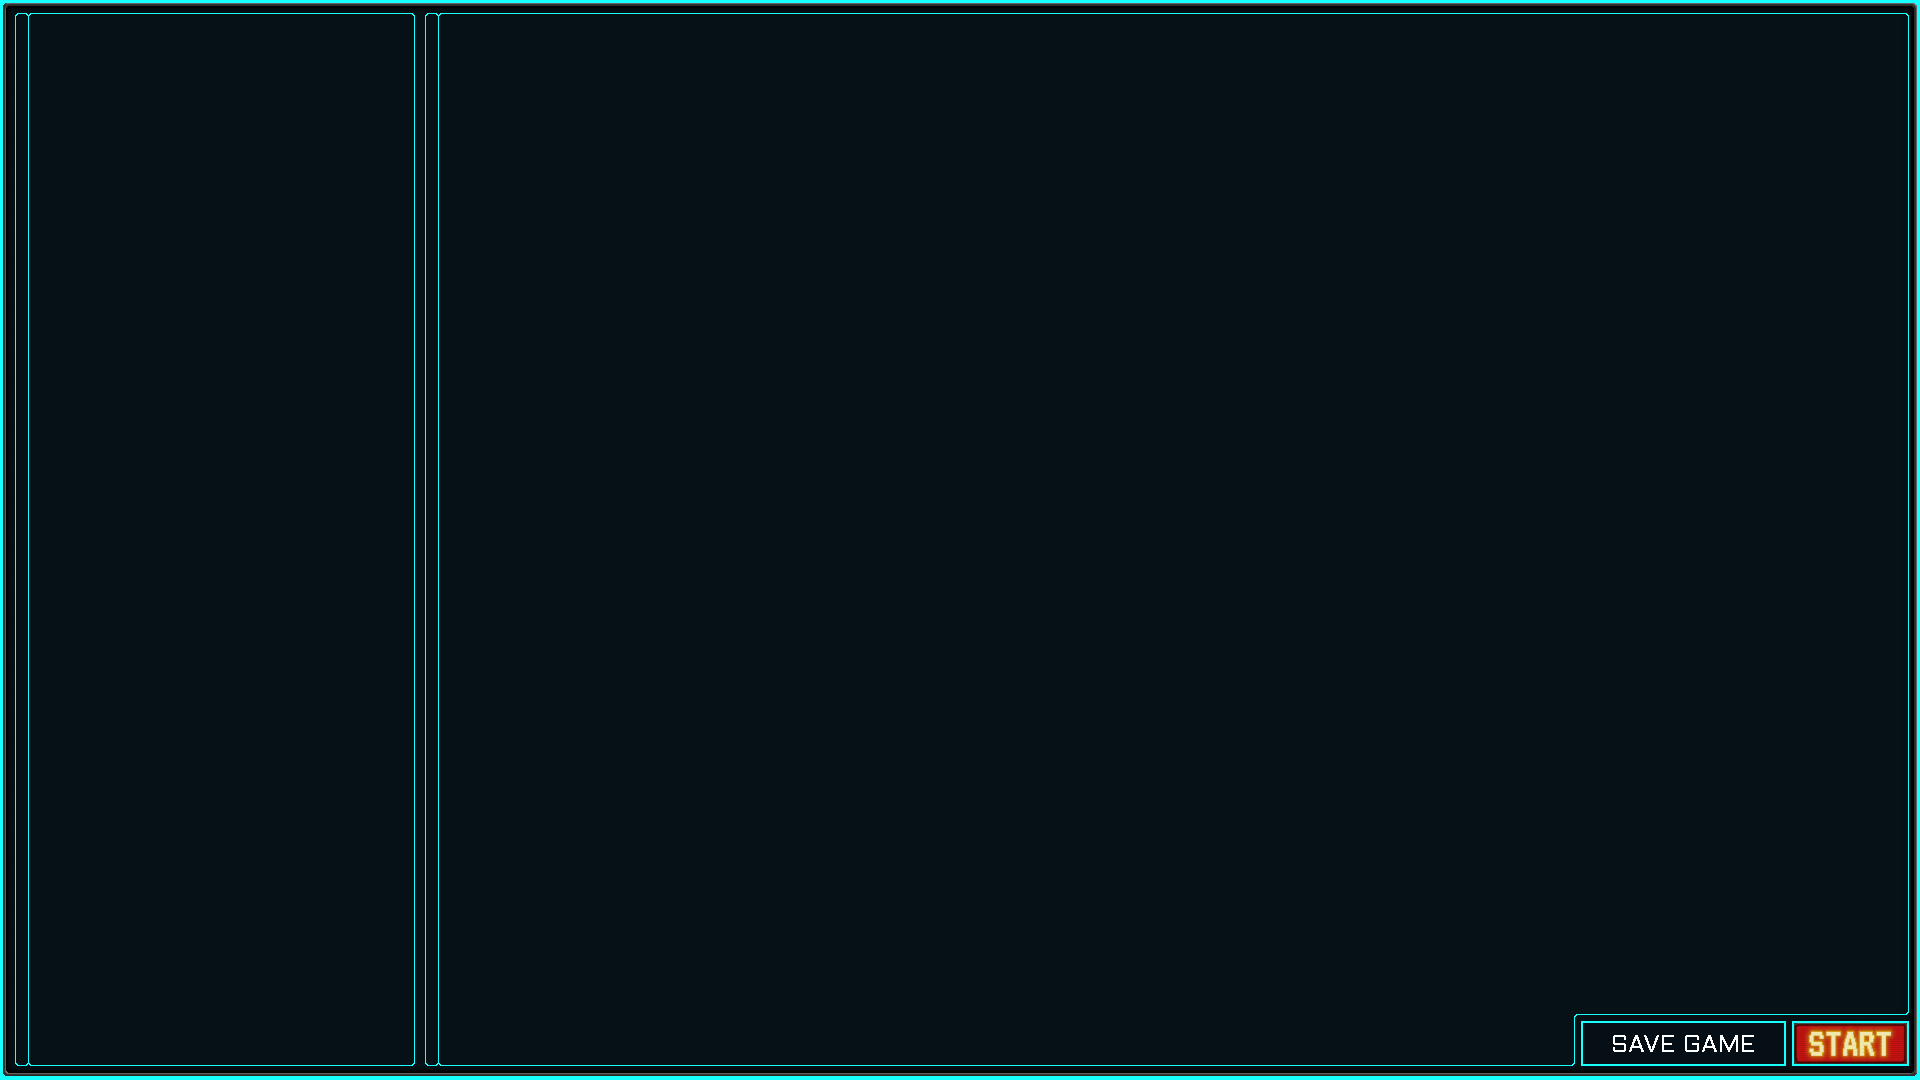
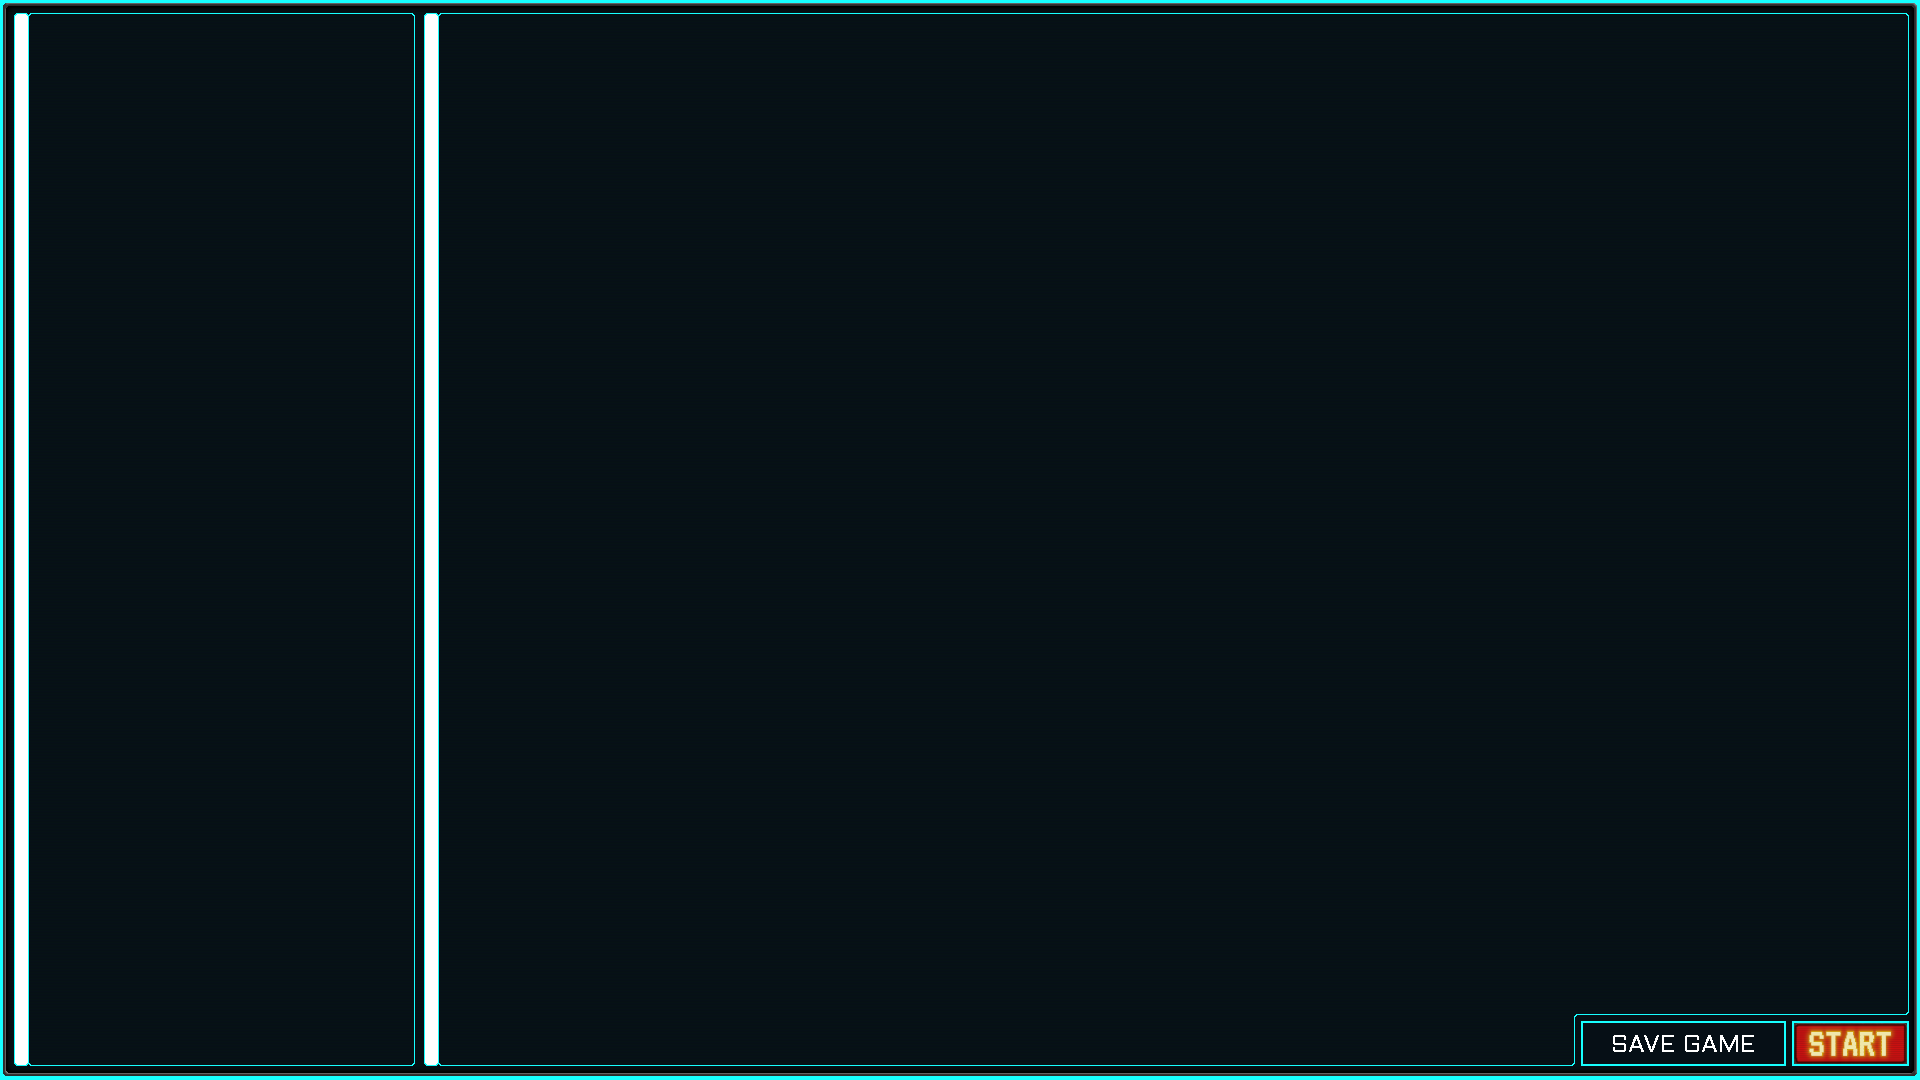
v0.0.05
New Game Menu

Changed region(s): [[0.2188, 0.0, 0.25, 0.9778], [0.0, 0.0, 0.0312, 0.9778]]

diff --git a/MenuManager.py b/MenuManager.py
@@ -4,6 +4,8 @@ from PygameManager import pygame
 from pyvidplayer import Video
 from json import load as json_load, dump as json_dump
 
+import traceback
+
 
 ###############################################################################################################################################################
 #---------------------------------------------------------------------- UTILITY MENUS ------------------------------------------------------------------------#
@@ -75,6 +77,7 @@ class ESCMenu:
 			global is_options_menu_open
 			global is_in_main_menu_screen
 			global is_in_new_game_load_game_screen
+			global is_in_new_game_screen
 			global RUNNING
 			global Main_Menu
 			global Options_Menu			
@@ -92,6 +95,8 @@ class ESCMenu:
 				is_in_main_menu_screen = True
 
 				is_in_new_game_load_game_screen = False
+
+				is_in_new_game_screen = False
 
 				Main_Menu.main_menu_intro_video.toggle_pause()
 
@@ -663,18 +668,59 @@ class NewGameMenu:
 		self.MENU_GUI 						= MENU_GUI
 		self.CHARACTER_CREATION_SHEET 		= CHARACTER_CREATION_SHEET
 
-		self.CHARACTER_CREATION_SHEET_SURFACE = pygame.Surface((self.CHARACTER_CREATION_SHEET.get_width(), self.CHARACTER_CREATION_SHEET.get_height()), pygame.SRCALPHA)
+
+		self.CHARACTER_CREATION_SHEET_SURFACE 			= pygame.Surface((self.CHARACTER_CREATION_SHEET.get_width(), self.CHARACTER_CREATION_SHEET.get_height()), pygame.SRCALPHA)
 		self.CHARACTER_CREATION_SHEET_SURFACE.blit(self.CHARACTER_CREATION_SHEET, (0, 0))
 
+		self.CHARACTER_CREATION_INFORMATION_SURFACE 	= pygame.Surface((self.CHARACTER_CREATION_SHEET.get_width(), self.CHARACTER_CREATION_SHEET.get_height()), pygame.SRCALPHA)
+
+
+		self.CHARACTER_CREATION_SHEET_SCROLL_BAR 		= Utility.Scroll_Bar(423 * self.FACTOR_X, 13 * self.FACTOR_Y, 1053 * self.FACTOR_Y,
+															self.CHARACTER_CREATION_SHEET.get_height() - 1000 * self.FACTOR_Y, (200,0,0), 17)
+
+
 		self.font20 = Utility.ScalableFont('Aldrich.ttf', 20)
+
+		self.image_offset_y = 0
 		#------------------------------------------------------------------------- UTILITY ---------------------------------------------------------------------------#
 		###############################################################################################################################################################	
 
-		self.receive_player_keybord_input = False
-		self.variable_to_receive_player_keybord_input = None
 
-		self.ASSIGN_CHARACTER_NAME_BOX_RECT = pygame.Rect(33, 37, 263, 16)
-		self.character_name = ['']
+		###############################################################################################################################################################
+		#------------------------------------------------------------------------ TEX BOXES --------------------------------------------------------------------------#
+		self.receive_player_keybord_input 				= False
+		self.variable_to_receive_player_keybord_input 	= None
+
+		self.ASSIGN_CHARACTER_NAME_BOX_RECT 			= pygame.Rect(88, 33, 453, 20)
+		self.character_name 							=  {	
+																'content' 		: '',
+																'rect' 			: self.ASSIGN_CHARACTER_NAME_BOX_RECT,
+																'maximum_size' 	: 34,
+																'content_type' 	: str,
+																'x_offset' 		: 4
+															}
+
+		self.ASSIGN_CHARACTER_AGE_BOX_RECT 				= pygame.Rect(616, 82, 59, 20)
+		self.character_age 								=  {	
+																'content' 		: '0',
+																'rect' 			: self.ASSIGN_CHARACTER_AGE_BOX_RECT,
+																'maximum_size' 	: 3,
+																'content_type' 	: int,
+																'x_offset' 		: 19
+															}
+
+		self.ASSIGN_CHARACTER_WEIGHT_BOX_RECT 			= pygame.Rect(107, 278, 59, 20)
+		self.character_weight 							=  {	
+																'content' 		: '95',
+																'rect' 			: self.ASSIGN_CHARACTER_WEIGHT_BOX_RECT,
+																'maximum_size' 	: 3,
+																'content_type' 	: int,
+																'x_offset' 		: 25
+															}	
+
+		#------------------------------------------------------------------------ TEX BOXES --------------------------------------------------------------------------#
+		###############################################################################################################################################################
+
 
 		###############################################################################################################################################################
 		#------------------------------------------------------------------------- BUTTONS ---------------------------------------------------------------------------#
@@ -683,8 +729,12 @@ class NewGameMenu:
 		###############################################################################################################################################################
 
 	def get_button_by_interaction(self, mouse_rect):
-		if self.ASSIGN_CHARACTER_NAME_BOX_RECT.colliderect(mouse_rect):
+		if self.ASSIGN_CHARACTER_NAME_BOX_RECT.colliderect((mouse_rect[0] - 439, mouse_rect[1]+self.image_offset_y - 13, 1, 1)):
 			return 'ASSIGN_CHARACTER_NAME'	
+		elif self.ASSIGN_CHARACTER_AGE_BOX_RECT.colliderect((mouse_rect[0] - 439, mouse_rect[1]+self.image_offset_y - 13, 1, 1)):
+			return 'ASSIGN_CHARACTER_AGE'
+		elif self.ASSIGN_CHARACTER_WEIGHT_BOX_RECT.colliderect((mouse_rect[0] - 439, mouse_rect[1]+self.image_offset_y - 13, 1, 1)):
+			return 'ASSIGN_CHARACTER_WEIGHT'					
 		else:
 			return None
 
@@ -698,6 +748,20 @@ class NewGameMenu:
 
 				self.HOVER_OVER_BUTTON_SOUND.fadeout(150)
 				self.CLICK_BUTTON_SOUND.play()
+			elif clicked_button == 'ASSIGN_CHARACTER_AGE':
+				self.receive_player_keybord_input = True
+
+				self.variable_to_receive_player_keybord_input = self.character_age
+
+				self.HOVER_OVER_BUTTON_SOUND.fadeout(150)
+				self.CLICK_BUTTON_SOUND.play()
+			elif clicked_button == 'ASSIGN_CHARACTER_WEIGHT':
+				self.receive_player_keybord_input = True
+
+				self.variable_to_receive_player_keybord_input = self.character_weight
+
+				self.HOVER_OVER_BUTTON_SOUND.fadeout(150)
+				self.CLICK_BUTTON_SOUND.play()								
 		else:
 			self.receive_player_keybord_input = False
 			self.variable_to_receive_player_keybord_input = None
@@ -715,19 +779,66 @@ class NewGameMenu:
 			self.hovered_button = self.last_hovered_button
 
 	def draw(self, SCREEN):
-		SCREEN.blit(self.MENU_GUI, (self.MENU_GUI_MIDDLE_X, self.MENU_GUI_MIDDLE_Y))
-
-		character_name_text_render = self.font20.render(str(self.character_name[0]), True, (255,255,255))	
-		SCREEN.blit(character_name_text_render, (33, 37))
-
-		SCREEN.blit(self.CHARACTER_CREATION_SHEET_SURFACE.subsurface(0, 0, self.CHARACTER_CREATION_SHEET_SURFACE.get_width(), 1000 * self.FACTOR_Y), (439 * self.FACTOR_X, 14 * self.FACTOR_Y))		
+		try:
+			self.image_offset_y = self.CHARACTER_CREATION_SHEET_SCROLL_BAR.get_scroll_position()			
 
 
-		if self.hovered_button != None:
-			pass
-		else:
-			self.HOVER_OVER_BUTTON_SOUND.fadeout(200)
+			self.CHARACTER_CREATION_SHEET_SCROLL_BAR.draw(SCREEN)
 
 
+			######  BACKGROUND  ######
+			SCREEN.blit(self.MENU_GUI, (self.MENU_GUI_MIDDLE_X, self.MENU_GUI_MIDDLE_Y))
+
+
+			######  TEXT RENDERS  ######
+			character_name_text_render 			= self.font20.render(	str(self.character_name['content']), 		True, 	(255,255,255))
+			character_age_text_render 			= self.font20.render(	str(self.character_age['content']), 		True, 	(255,255,255))
+			character_weight_text_render 		= self.font20.render(	str(self.character_weight['content']), 		True, 	(255,255,255))	
+
+			self.CHARACTER_CREATION_INFORMATION_SURFACE.blit(character_name_text_render, 	(	self.character_name['rect'][0]			+ self.character_name['x_offset']											
+																							,   self.character_name['rect'][1] 		+ 1))
+
+			self.CHARACTER_CREATION_INFORMATION_SURFACE.blit(character_age_text_render, 	(	self.character_age['rect'][0] 			+ self.character_age['x_offset']		
+																							,   self.character_age['rect'][1] 		+ 1))
+
+			self.CHARACTER_CREATION_INFORMATION_SURFACE.blit(character_weight_text_render, 	(	self.character_weight['rect'][0] 		+ self.character_weight['x_offset']		
+																							,   self.character_weight['rect'][1] 	+ 1))				
+			
+
+			if self.receive_player_keybord_input == True:
+				current_time = pygame.time.get_ticks()
+				visibility_duration = 250
+				cycle_duration = visibility_duration * 2
+
+				if (current_time % cycle_duration) < visibility_duration:
+					x = self.variable_to_receive_player_keybord_input['rect'][0] + self.variable_to_receive_player_keybord_input['x_offset'] + self.font20.render(str(self.variable_to_receive_player_keybord_input['content']), True, (255,255,255)).get_width()
+					y = self.variable_to_receive_player_keybord_input['rect'][1]
+					pygame.draw.rect(self.CHARACTER_CREATION_INFORMATION_SURFACE, (255,255,255), (x, y, 2, 18 * self.FACTOR_Y))
+
+
+			######  SUBSURFACES  ######
+			SCREEN.blit(self.CHARACTER_CREATION_SHEET_SURFACE.subsurface(				0,															# START X
+																						self.image_offset_y,										# START Y
+																						self.CHARACTER_CREATION_SHEET_SURFACE.get_width(),			# WIDTH
+																						1000 * self.FACTOR_Y),										# HEIGHT
+																						(439 * self.FACTOR_X, 14 * self.FACTOR_Y))					# BLIT POS
+
+			SCREEN.blit(self.CHARACTER_CREATION_INFORMATION_SURFACE.subsurface(			0,															# START X
+																						self.image_offset_y,										# START Y
+																						self.CHARACTER_CREATION_INFORMATION_SURFACE.get_width(),	# WIDTH
+																						1000 * self.FACTOR_Y),										# HEIGHT
+																						(439 * self.FACTOR_X, 14 * self.FACTOR_Y))					# BLIT POS
+
+			self.CHARACTER_CREATION_INFORMATION_SURFACE.fill((0, 0, 0, 0))				
+
+
+			######  BUTTONS ######
+			if self.hovered_button != None:
+				pass
+			else:
+				self.HOVER_OVER_BUTTON_SOUND.fadeout(200)
+		except Exception as e:
+			print("An error occurred:")
+			traceback.print_exc()
 #------------------------------------------------------------------------- NEW GAME---------------------------------------------------------------------------#
 ###############################################################################################################################################################

diff --git a/Main.py b/Main.py
@@ -197,27 +197,27 @@ class GameLoader:
 
 
         global Main_Menu
-        Main_Menu                               = MainMenu(SCREEN_WIDTH, SCREEN_HEIGHT, game_logo, python_logo, main_menu_background, main_menu_UI,
-                                                    Sounds_Manager.generic_hover_over_button_sound, Sounds_Manager.generic_click_button_sound) 
+        Main_Menu                               = MainMenu(SCREEN_WIDTH, SCREEN_HEIGHT, game_logo, python_logo, main_menu_background, main_menu_UI,                # type: ignore
+                                                    Sounds_Manager.generic_hover_over_button_sound, Sounds_Manager.generic_click_button_sound)
         
         global New_Game_Load_Game_Menu
-        New_Game_Load_Game_Menu                 = NewGameLoadGameMenu(SCREEN_WIDTH, SCREEN_HEIGHT, game_logo, python_logo, main_menu_background,
+        New_Game_Load_Game_Menu                 = NewGameLoadGameMenu(SCREEN_WIDTH, SCREEN_HEIGHT, game_logo, python_logo, main_menu_background,                   # type: ignore
                                                     new_game_load_game_menu_UI, Sounds_Manager.generic_hover_over_button_sound,
                                                     Sounds_Manager.generic_click_button_sound)
 
         global New_Game_Menu
-        New_Game_Menu                           = NewGameMenu(SCREEN_WIDTH, SCREEN_HEIGHT, new_game_menu_UI, character_creation_sheet_UI, 
+        New_Game_Menu                           = NewGameMenu(SCREEN_WIDTH, SCREEN_HEIGHT, new_game_menu_UI, character_creation_sheet_UI,                          # type: ignore
                                                             Sounds_Manager.generic_hover_over_button_sound,
                                                     Sounds_Manager.generic_click_button_sound)                   
 
 
 
         global Options_Menu
-        Options_Menu                            = OptionsMenu(SCREEN_WIDTH, SCREEN_HEIGHT, game_options_menu, Sounds_Manager.generic_hover_over_button_sound,
+        Options_Menu                            = OptionsMenu(SCREEN_WIDTH, SCREEN_HEIGHT, game_options_menu, Sounds_Manager.generic_hover_over_button_sound,      # type: ignore
                                                     Sounds_Manager.generic_click_button_sound, Sounds_Manager, Main_Menu)
         
         global ESC_Menu
-        ESC_Menu                                = ESCMenu(SCREEN_WIDTH, SCREEN_HEIGHT, esc_menu_background, Sounds_Manager.generic_hover_over_button_sound,
+        ESC_Menu                                = ESCMenu(SCREEN_WIDTH, SCREEN_HEIGHT, esc_menu_background, Sounds_Manager.generic_hover_over_button_sound,        # type: ignore
                                                     Sounds_Manager.generic_click_button_sound)
         
         #-------------------------------------------------------------------------------------------------------------------------------------------------- MENUS #
@@ -417,7 +417,8 @@ while RUNNING:
 
             #######################################################################################################################################################
             #------------------------------------------------------------------------------------------------------------------------------------------- KEYBOARD # 
-            keys = pygame.key.get_pressed()	
+            keys = pygame.key.get_pressed()
+            mods = pygame.key.get_mods()	
 
             if event.type == pygame.KEYDOWN:
                 if keys[pygame.K_ESCAPE]:
@@ -426,11 +427,21 @@ while RUNNING:
                 
                 if New_Game_Menu.receive_player_keybord_input == True:
                     key_name = pygame.key.name(event.key)
-                    if len(key_name) == 1 and key_name.isalpha():
-                        New_Game_Menu.variable_to_receive_player_keybord_input[0] += key_name
 
-                    elif keys[pygame.K_BACKSPACE]:
-                        New_Game_Menu.variable_to_receive_player_keybord_input[0] = New_Game_Menu.variable_to_receive_player_keybord_input[0][:-1]
+                    if len(New_Game_Menu.variable_to_receive_player_keybord_input['content']) < New_Game_Menu.variable_to_receive_player_keybord_input['maximum_size']:
+                        if len(key_name) == 1 and key_name.isalpha() and New_Game_Menu.variable_to_receive_player_keybord_input['content_type'] == str:
+                            # Check if either shift key is pressed to determine uppercase
+                            if mods & pygame.KMOD_SHIFT or mods & pygame.KMOD_CAPS:
+                                key_name = key_name.upper()                        
+                            New_Game_Menu.variable_to_receive_player_keybord_input['content'] += key_name
+                        elif len(key_name) == 1 and key_name.isnumeric() and New_Game_Menu.variable_to_receive_player_keybord_input['content_type'] == int:                      
+                            New_Game_Menu.variable_to_receive_player_keybord_input['content'] += key_name  
+
+                        elif keys[pygame.K_SPACE]:
+                            New_Game_Menu.variable_to_receive_player_keybord_input['content'] += ' '                                                       
+
+                    if keys[pygame.K_BACKSPACE]:
+                        New_Game_Menu.variable_to_receive_player_keybord_input['content'] = New_Game_Menu.variable_to_receive_player_keybord_input['content'][:-1]
 
             #------------------------------------------------------------------------------------------------------------------------------------------- KEYBOARD #
             #######################################################################################################################################################
@@ -461,6 +472,8 @@ while RUNNING:
         #------------------------------------------------------------------------------------------------------------------------------------------- UPDATE CLASS #
         if is_options_menu_open == False and is_in_esc_menu == False:				
             New_Game_Menu.hover_button(mouse_rect)
+
+            New_Game_Menu.CHARACTER_CREATION_SHEET_SCROLL_BAR.handle_event(PYGAME_EVENTS)
 
         #------------------------------------------------------------------------------------------------------------------------------------------- UPDATE CLASS #
         ###########################################################################################################################################################

diff --git a/Utility.py b/Utility.py
@@ -133,52 +133,54 @@ class Slide:
 
 
 class Scroll_Bar:
-	def __init__(self, x_pos, y_pos, scroll_height, scroll_range, scroll_color, bar_color, bar_width=20):
+	def __init__(self, x_pos, y_pos, scroll_height, scroll_range, bar_color, bar_width=20, scroll_type = 'rect'):
 		self.x_pos = x_pos
 		self.y_pos = y_pos
 
 		self.scroll_height = scroll_height
 		self.scroll_range = scroll_range
-		self.scroll_color = scroll_color
 		self.bar_color = bar_color
 		self.bar_width = bar_width
+
+		self.scroll_type = scroll_type
 
 		self.dragging = False
 
 		self.scroll_position = 0  # Initial scroll position
 
 	def draw(self, screen):
-		# Draw the scroll background
-		pygame.draw.rect(screen, self.scroll_color, (self.x_pos, self.y_pos, self.bar_width, self.scroll_height))
-
 		# Calculate the position and height of the scroll bar
 		bar_height = 50
 		bar_position = (self.scroll_position / self.scroll_range) * (self.scroll_height - bar_height)
 
-		# Draw the scroll bar
-		pygame.draw.rect(screen, self.bar_color, (self.x_pos, self.y_pos + bar_position, self.bar_width, bar_height))
+		if self.scroll_type == 'rect':
+			# Draw the scroll bar
+			pygame.draw.rect(screen, self.bar_color, (self.x_pos, self.y_pos + bar_position, self.bar_width, bar_height))
+		elif self.scroll_type == 'ball':
+			pygame.draw.circle(screen, self.bar_color, (self.x_pos, self.y_pos + bar_position), self.bar_width)
 
 	def is_mouse_over_scrollbar(self, event):
 		x, y = event.pos
 		scrollbar_rect = pygame.Rect(self.x_pos, self.y_pos, self.bar_width, self.scroll_height)
 		return scrollbar_rect.collidepoint(x, y)
 
-	def handle_event(self, event):
-		if event.type == pygame.MOUSEBUTTONDOWN:
-			if event.button == 1:  # Left mouse button
-				if self.is_mouse_over_scrollbar(event):
-					self.dragging = True
+	def handle_event(self, events):
+		for event in events:
+			if event.type == pygame.MOUSEBUTTONDOWN:
+				if event.button == 1:  # Left mouse button
+					if self.is_mouse_over_scrollbar(event):
+						self.dragging = True
+						mouse_y = event.pos[1] - self.y_pos
+						# Update scroll position based on the mouse position
+						self.scroll_position = min(self.scroll_range, max(0, int((mouse_y / self.scroll_height) * self.scroll_range)))					
+			elif event.type == pygame.MOUSEBUTTONUP:
+				if event.button == 1:  # Left mouse button
+					self.dragging = False
+			elif event.type == pygame.MOUSEMOTION:
+				if self.dragging:
 					mouse_y = event.pos[1] - self.y_pos
 					# Update scroll position based on the mouse position
-					self.scroll_position = min(self.scroll_range, max(0, int((mouse_y / self.scroll_height) * self.scroll_range)))					
-		elif event.type == pygame.MOUSEBUTTONUP:
-			if event.button == 1:  # Left mouse button
-				self.dragging = False
-		elif event.type == pygame.MOUSEMOTION:
-			if self.dragging:
-				mouse_y = event.pos[1] - self.y_pos
-				# Update scroll position based on the mouse position
-				self.scroll_position = min(self.scroll_range, max(0, int((mouse_y / self.scroll_height) * self.scroll_range)))
+					self.scroll_position = min(self.scroll_range, max(0, int((mouse_y / self.scroll_height) * self.scroll_range)))
 		
 	def get_scroll_position(self):
 		return self.scroll_position

diff --git a/ScreenManager.py b/ScreenManager.py
@@ -75,7 +75,7 @@ class Screen:
         pygame.display.update(self.SCREEN_RECT)
 
     def render_new_game_menu(self, brightness_value, is_options_menu_open, is_in_esc_menu):
-        self.SCREEN.fill((0, 0, 0))
+        self.SCREEN.fill((127, 127, 127))
         self.SURFACE_ALFA.fill((0, 0, 0, 0))
         self.BRIGHTNESS_SURFACE.fill((0, 0, 0, 0))
 
